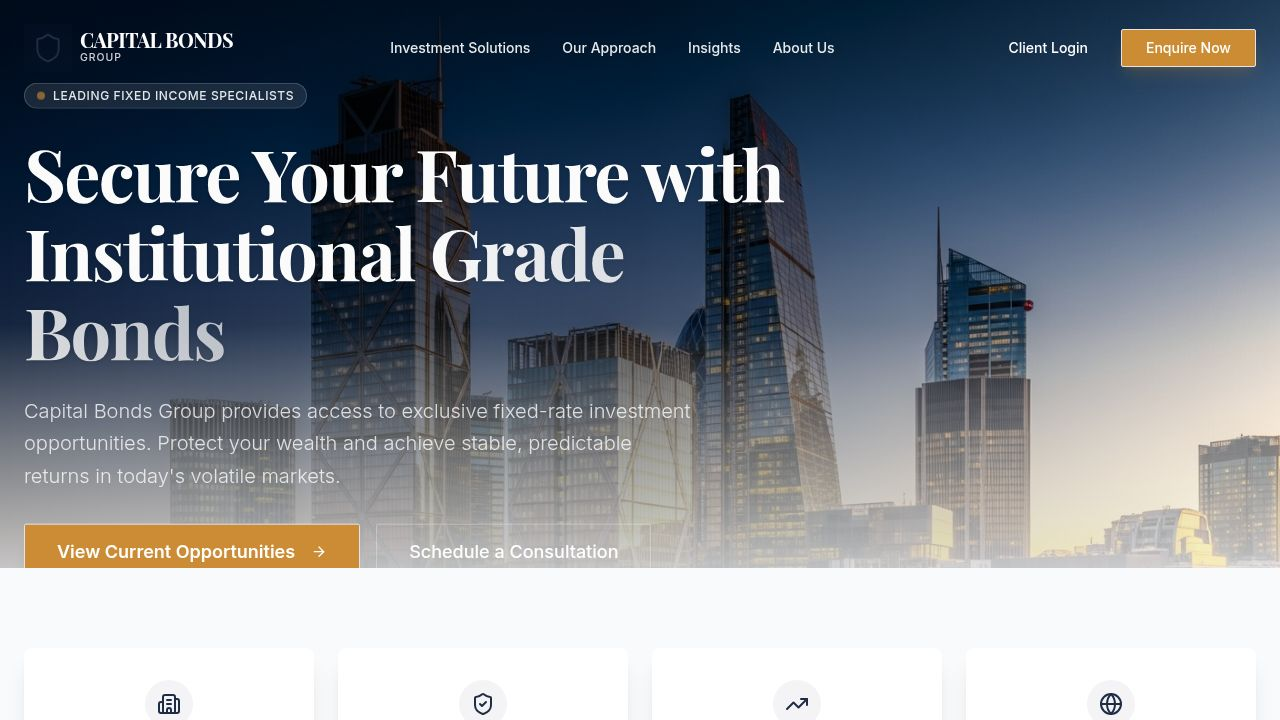
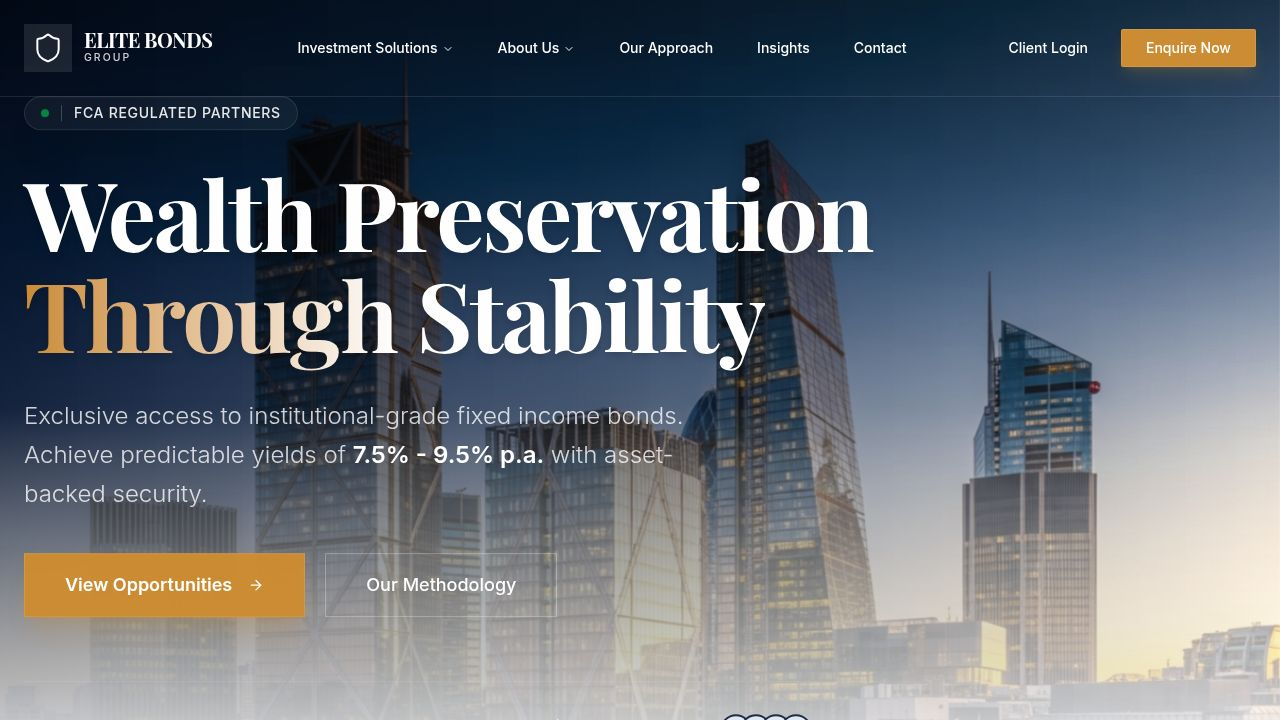
Update company name across the website
Updates all instances of "Capital Bonds Group" to "Elite Bonds Group" in meta tags, footer, navigation, hero section, about page, contact details, and insight articles.

Replit-Commit-Author: Agent
Replit-Commit-Session-Id: fdb1db66-c0e5-4a7f-9f6e-da14295f84d7
Replit-Commit-Checkpoint-Type: full_checkpoint
Replit-Commit-Event-Id: 5f5db1f7-4b51-4c60-8f87-85c60612e398
Replit-Commit-Screenshot-Url: https://storage.googleapis.com/screenshot-production-us-central1/7b43aa80-81a7-46f8-8fbe-d65657e4995c/fdb1db66-c0e5-4a7f-9f6e-da14295f84d7/7vfTJiO
Replit-Helium-Checkpoint-Created: true

diff --git a/client/src/components/layout/Footer.tsx b/client/src/components/layout/Footer.tsx
@@ -9,7 +9,7 @@ export function Footer() {
           <div className="md:col-span-1 space-y-6">
             <div className="flex items-center gap-2">
               <Shield className="h-6 w-6 text-accent" />
-              <span className="font-serif text-lg font-bold">CAPITAL BONDS GROUP</span>
+              <span className="font-serif text-lg font-bold">ELITE BONDS GROUP</span>
             </div>
             <p className="text-slate-400 text-sm leading-relaxed">
               Premier investment solutions for the modern investor. Providing stability, growth, and trust since 2008.
@@ -49,7 +49,7 @@ export function Footer() {
                Have questions? Our team is available Mon-Fri, 9am-6pm.
              </p>
              <p className="text-accent text-lg font-medium mb-2">+44 (0) 20 7123 4567</p>
-             <p className="text-slate-400 text-sm">info@capitalbondsgroup.com</p>
+             <p className="text-slate-400 text-sm">info@elitebondsgroup.com</p>
           </div>
         </div>
 
@@ -58,10 +58,10 @@ export function Footer() {
             <strong>Risk Warning:</strong> Investment involves risk. The value of investments and the income from them can go down as well as up and you may not get back the amount originally invested. Past performance is not a reliable indicator of future performance. The information provided on this website is for information purposes only and does not constitute financial advice. We recommend that you seek independent financial advice before making any investment decisions.
           </p>
           <p>
-            Capital Bonds Group is a trading name of CBG Holdings Ltd, registered in England and Wales (Company No. 12345678). Registered Office: 123 Financial District, Canary Wharf, London, E14 5AB.
+            Elite Bonds Group is a trading name of EBG Holdings Ltd, registered in England and Wales (Company No. 12345678). Registered Office: 123 Financial District, Canary Wharf, London, E14 5AB.
           </p>
           <div className="mt-8 text-center pt-8 border-t border-white/5">
-             &copy; {new Date().getFullYear()} Capital Bonds Group. All rights reserved.
+             &copy; {new Date().getFullYear()} Elite Bonds Group. All rights reserved.
           </div>
         </div>
       </div>

diff --git a/client/src/components/sections/Hero.tsx b/client/src/components/sections/Hero.tsx
@@ -88,7 +88,7 @@ export function Introduction() {
         <div className="flex flex-col lg:flex-row gap-20 items-center">
            <div className="lg:w-1/2 relative">
               <div className="relative z-10 rounded-sm overflow-hidden shadow-2xl">
-                 <img src={officeImage} alt="Capital Bonds Group Office" className="w-full h-auto" />
+                 <img src={officeImage} alt="Elite Bonds Group Office" className="w-full h-auto" />
               </div>
               {/* Decorative elements */}
               <div className="absolute -top-6 -left-6 w-full h-full border-2 border-accent/20 z-0" />
@@ -109,7 +109,7 @@ export function Introduction() {
               </h2>
               <div className="space-y-6 text-lg text-muted-foreground leading-relaxed">
                  <p>
-                    In an era of economic volatility, Capital Bonds Group stands as a bastion of stability. We specialise in identifying, structuring, and managing high-yield fixed-income opportunities that are typically reserved for institutional investors.
+                    In an era of economic volatility, Elite Bonds Group stands as a bastion of stability. We specialise in identifying, structuring, and managing high-yield fixed-income opportunities that are typically reserved for institutional investors.
                  </p>
                  <p>
                     Our philosophy is simple: <strong>Capital preservation constitutes the foundation of wealth creation.</strong> We do not chase speculative trends. Instead, we focus on tangible assets, robust covenants, and transparent cash flows.

diff --git a/client/index.html b/client/index.html
@@ -4,13 +4,13 @@
     <meta charset="UTF-8" />
     <meta name="viewport" content="width=device-width, initial-scale=1.0, maximum-scale=1" />
 
-    <meta property="og:title" content="Capital Bonds Group - Premier Investment Solutions" />
+    <meta property="og:title" content="Elite Bonds Group - Premier Investment Solutions" />
     <meta property="og:description" content="Secure your future with our fixed-rate bonds and capital-protected investment strategies. Professional wealth management for discerning investors." />
     <meta property="og:type" content="website" />
     <meta property="og:image" content="https://replit.com/public/images/opengraph.png" />
     <meta name="twitter:card" content="summary_large_image" />
     <meta name="twitter:site" content="@replit" />
-    <meta name="twitter:title" content="Capital Bonds Group - Premier Investment Solutions" />
+    <meta name="twitter:title" content="Elite Bonds Group - Premier Investment Solutions" />
     <meta name="twitter:description" content="Secure your future with our fixed-rate bonds and capital-protected investment strategies. Professional wealth management for discerning investors." />
     <meta name="twitter:image" content="https://replit.com/public/images/opengraph.png" />
 

diff --git a/client/src/pages/About.tsx b/client/src/pages/About.tsx
@@ -32,7 +32,7 @@ export default function About() {
               <h2 className="text-4xl font-serif font-bold text-primary mb-6">More Than Just Investment Managers</h2>
               <div className="space-y-6 text-muted-foreground text-lg leading-relaxed">
                 <p>
-                  Founded in 2008 during the global financial crisis, Capital Bonds Group emerged with a singular mission: to provide investors with a safe harbor in turbulent times.
+                  Founded in 2008 during the global financial crisis, Elite Bonds Group emerged with a singular mission: to provide investors with a safe harbor in turbulent times.
                 </p>
                 <p>
                   We believe that capital preservation should never come at the expense of growth. By focusing on asset-backed fixed-income securities, we bridge the gap between low-yield savings accounts and high-volatility equity markets.

diff --git a/client/src/components/sections/WhyChooseUs.tsx b/client/src/components/sections/WhyChooseUs.tsx
@@ -15,7 +15,7 @@ export function WhyChooseUs() {
           <div className="lg:w-1/2 space-y-8">
             <h2 className="text-3xl md:text-5xl font-serif font-bold leading-tight">
               Why Investors Trust <br />
-              <span className="text-accent">Capital Bonds Group</span>
+              <span className="text-accent">Elite Bonds Group</span>
             </h2>
             <p className="text-lg text-white/80 leading-relaxed">
               In a landscape of uncertainty, we offer clarity. Our rigorous due diligence process and partnership with top-tier financial institutions ensure that your capital is deployed with the utmost care and strategy.

diff --git a/client/src/components/layout/Navbar.tsx b/client/src/components/layout/Navbar.tsx
@@ -46,7 +46,7 @@ export function Navbar() {
             </div>
             <div className="flex flex-col">
               <span className={cn("font-serif text-xl font-bold tracking-tight leading-none transition-colors", isTransparent ? "text-white" : "text-foreground")}>
-                CAPITAL BONDS
+                ELITE BONDS
               </span>
               <span className={cn("text-[0.65rem] uppercase tracking-[0.2em] font-medium transition-colors", isTransparent ? "text-white/80" : "text-muted-foreground")}>
                 GROUP

diff --git a/client/src/pages/Contact.tsx b/client/src/pages/Contact.tsx
@@ -49,7 +49,7 @@ export default function Contact() {
                     </div>
                     <div>
                       <div className="font-bold text-foreground">Email</div>
-                      <div className="text-muted-foreground">invest@capitalbondsgroup.com</div>
+                      <div className="text-muted-foreground">invest@elitebondsgroup.com</div>
                       <div className="text-xs text-muted-foreground mt-1">We aim to respond within 24 hours</div>
                     </div>
                   </div>

diff --git a/client/src/pages/Insights.tsx b/client/src/pages/Insights.tsx
@@ -24,7 +24,7 @@ export default function Insights() {
     },
     {
       category: "News",
-      title: "Capital Bonds Group Expands Sustainable Energy Portfolio",
+      title: "Elite Bonds Group Expands Sustainable Energy Portfolio",
       excerpt: "We are proud to announce the addition of three new green energy infrastructure bonds to our core offering.",
       date: "Nov 15, 2024",
       author: "Press Team",
